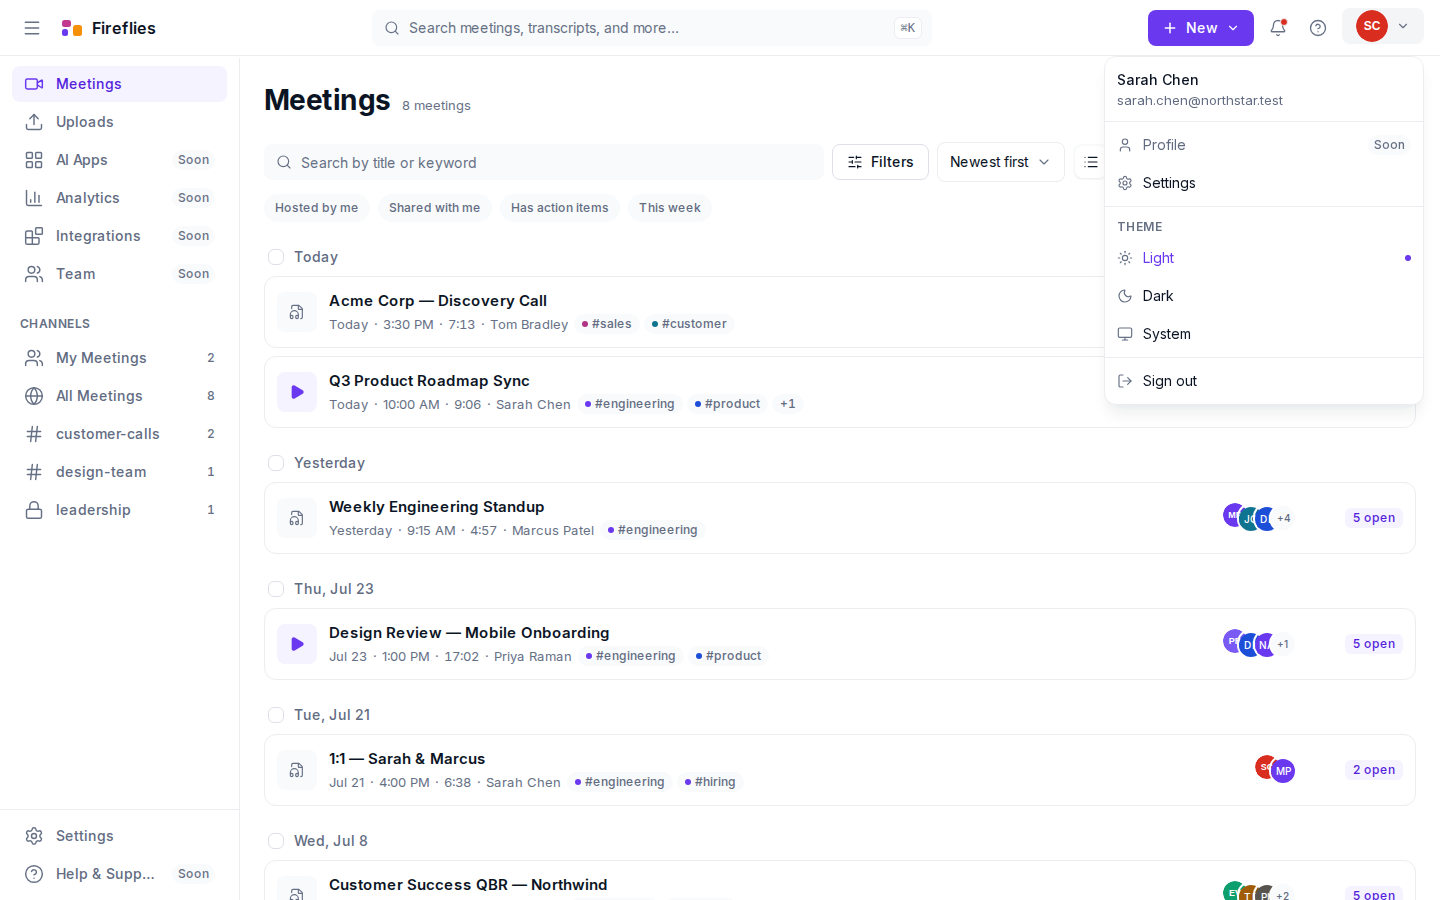
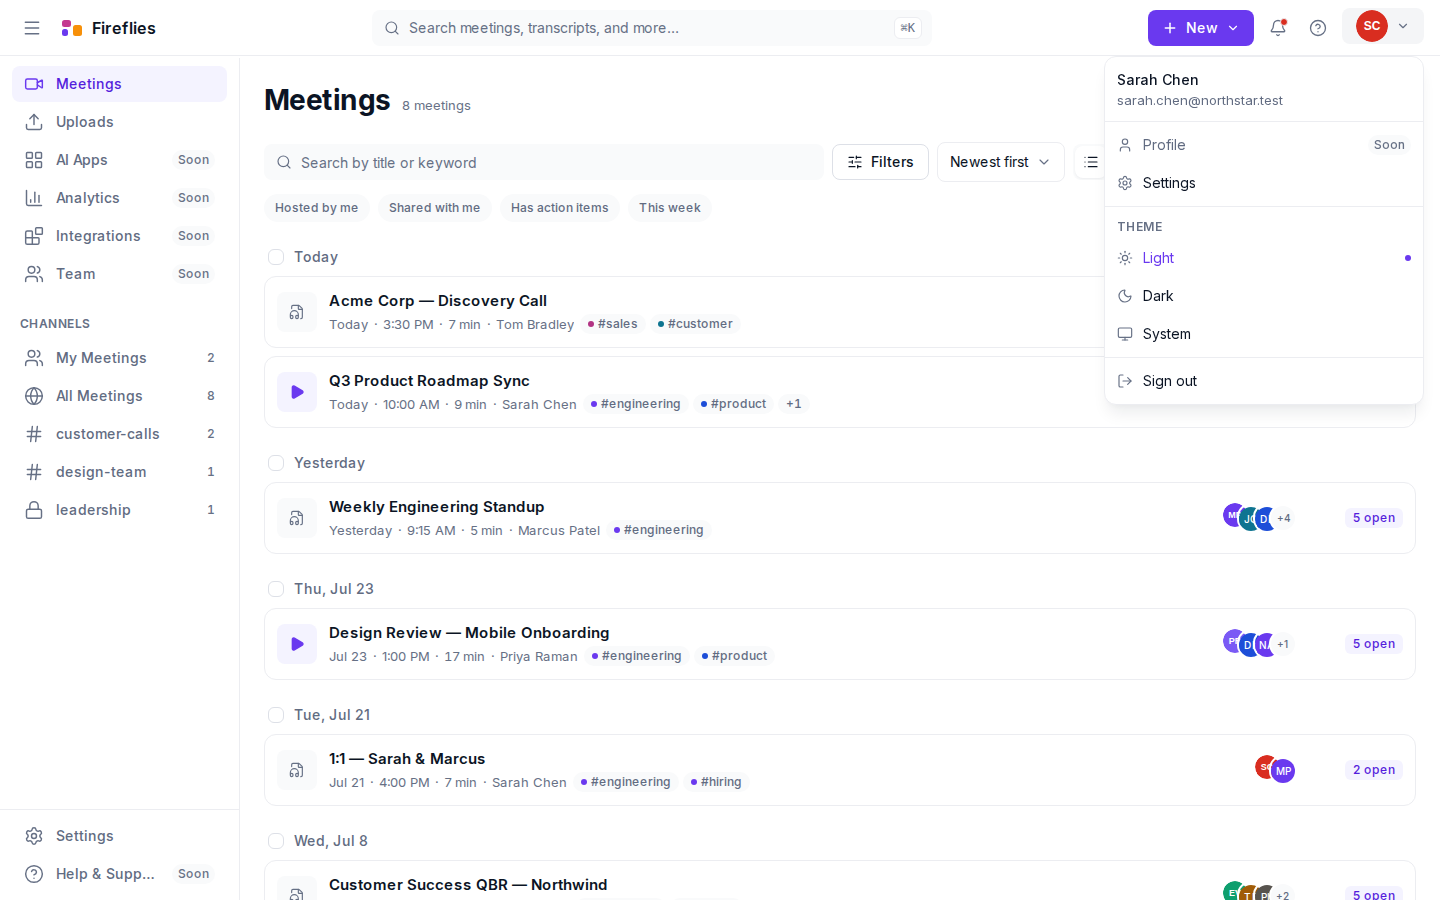
T-45.2/T-46: recapture the comparison set, and a notepad shot
Three findings, all of which needed looking at the images rather than at the
code that produces them.

1. Our thinnest screen was posed against the reference's fullest. Slot 02 is
   the ONE like-for-like comparison in the set — reference 02 is a dense
   date-grouped meetings list and so is ours — and it held the two-row
   `customer-calls` view against their eight. Slot 01 stands in for Fireflies'
   Home, which we have no equivalent of and cannot match either way, so the
   channel-scoped view moves there. The differentiation argument that put it
   in 02 is still satisfied; the two photographs still differ.

2. The dark notepad was photographed mid-load. The capture waited on
   `transcript-panel` and `summary-panel` being visible, and both are visible
   while their skeletons shimmer — so the shot was two columns of grey bars. It
   now waits for content. A screenshot of a loading state is worse than none:
   it looks like the app.

3. `9 min` wraps where `09:06` could not. The notepad header put "9" over
   "min" and doubled its own height — a regression from ADR-148 that no test
   would have caught and that is obvious in a still. `whitespace-nowrap` on all
   three labels.

Also records the notepad tag strip clipping its last chip in the UI audit. That
one is deliberate (`overflow-x-auto` on a fixed-height line) but has no scroll
affordance, so it reads as broken; the honest fix is a T-36 design question,
[…]

diff --git a/e2e/tests/99-capture.spec.ts b/e2e/tests/99-capture.spec.ts
@@ -92,30 +92,39 @@ for (const theme of THEMES) {
     })
 
     test(`01-home · notebook as the home hub · ${theme}`, async ({ page }) => {
-      // Fireflies' Home is a recent-meetings hub; our `/` redirects to the
-      // Notebook, which is the closest surface we have to a hub.
-      await page.goto('/notebook')
+      /*
+       * Fireflies' Home is a recent-meetings hub with a greeting, assistant
+       * cards and AskFred. We have no equivalent, so this slot is a stand-in
+       * whichever view goes in it — which is exactly why the CHANNEL-SCOPED
+       * notebook goes here and the full list goes in 02.
+       *
+       * It used to be the other way round. Reference 02 is a dense meetings
+       * list; ours was the two-row `customer-calls` view, so the one slot that
+       * IS a like-for-like comparison had our thinnest screen in it against
+       * their fullest. Swapping costs nothing — 01 is a non-match either way —
+       * and it puts our best-matching artifact against the screen that can
+       * actually be compared.
+       */
+      await page.goto('/notebook?channel=customer-calls')
       await expect(page.getByTestId('meeting-list')).toBeVisible()
       await capture(page, '01-home', theme)
     })
 
-    test(`02-meetings-list · a channel-scoped list · ${theme}`, async ({ page }) => {
+    test(`02-meetings-list · the full list, as the reference shows it · ${theme}`, async ({
+      page,
+    }) => {
       /*
-       * `?channel=customer-calls`, NOT `?channel=all-meetings`.
+       * The unfiltered list, because this is the one slot where a genuine
+       * like-for-like comparison is possible: `docs/reference/fireflies/02.png`
+       * is a dense, date-grouped meetings list, and so is this.
        *
-       * Two reasons, and the first one expired: this capture originally failed
-       * because the built-in "All Meetings" and "My Meetings" items are
-       * PSEUDO-channels with no `channels.slug` row, so the backend matched
-       * nothing and the view rendered empty. That is fixed on main — the
-       * built-ins resolve client-side now — so the URL works.
-       *
-       * The surviving reason is differentiation: with the fix, "All Meetings"
-       * shows exactly what `/notebook` shows, which is already key 01, and two
-       * identical photographs teach the evaluator nothing. `customer-calls` is
-       * a real seeded channel, so this captures the structure the reference
-       * actually shows — rail item active, scoped count, a narrowed list.
+       * The differentiation concern that previously put the channel-scoped view
+       * here is real but belongs in 01, which stands in for a screen we do not
+       * have. Photographing a two-row filtered list against their full one made
+       * the comparison look like a difference in the app rather than a
+       * difference in what was photographed.
        */
-      await page.goto('/notebook?channel=customer-calls')
+      await page.goto('/notebook')
       await expect(page.getByTestId('meeting-list')).toBeVisible()
       await capture(page, '02-meetings-list', theme)
     })
@@ -166,6 +175,34 @@ for (const theme of THEMES) {
       await page.goto('/settings?tab=appearance')
       await expect(page.getByTestId('settings-view')).toBeVisible()
       await capture(page, '08-settings-ai', theme)
+    })
+
+    test(`09-notepad · transcript, summary and player · ${theme}`, async ({ page }) => {
+      /*
+       * OUTSIDE the 01–08 reference harness on purpose: there is no Fireflies
+       * screenshot of a notepad in `docs/reference/fireflies/`, so this slot
+       * has nothing to sit beside and the comparison page does not look for it.
+       *
+       * It exists for the README (T-45.2). The notepad is where the most-graded
+       * interaction lives — transcript ↔ player sync — and a README whose only
+       * screenshot is a list is not showing the app. `?t=` seeks the player so
+       * the active transcript line is lit rather than the view sitting at 0:00
+       * with nothing to look at.
+       */
+      await page.goto('/meeting/1?t=45')
+
+      /*
+       * Wait for CONTENT, not for the panels. The first version of this waited
+       * on `transcript-panel` and `summary-panel` being visible — both of which
+       * are visible while their skeletons shimmer — and photographed the dark
+       * notepad as two columns of grey placeholder bars. A screenshot of a
+       * loading state is worse than no screenshot: it looks like the app.
+       */
+      await expect(page.getByTestId('summary-overview')).toBeVisible()
+      await page.locator('[data-testid^="transcript-segment-"]').first().waitFor()
+      await expect(page.getByTestId('transcript-count')).toBeVisible()
+
+      await capture(page, '09-notepad', theme)
     })
   })
 }

diff --git a/frontend/src/features/notebook/meeting-row.tsx b/frontend/src/features/notebook/meeting-row.tsx
@@ -247,8 +247,12 @@ export function MeetingRow({
             <Separator />
             <span>{formatTime(meeting.started_at)}</span>
             <Separator />
-            {/* tnum so durations line up down the list even unaligned. */}
-            <span className="tnum" data-testid="meeting-row-duration">
+            {/*
+              tnum so durations line up down the list even unaligned, and
+              nowrap because the label carries a space (ADR-148) — this line
+              shrinks, and "7" over "min" would break the row height token.
+            */}
+            <span className="tnum whitespace-nowrap" data-testid="meeting-row-duration">
               {formatDurationLabel(meeting.duration_seconds * 1000)}
             </span>
             <Separator />

diff --git a/frontend/src/features/notepad/notepad-header.tsx b/frontend/src/features/notepad/notepad-header.tsx
@@ -283,7 +283,14 @@ function MetadataLine({
     <div className="flex min-w-0 items-center gap-2 text-sm text-muted" data-testid="notepad-meta">
       <span className="truncate">{formatFullDate(meeting.started_at)}</span>
       <Separator />
-      <span className="tnum">{formatDurationLabel(meeting.duration_seconds * 1000)}</span>
+      {/*
+        `whitespace-nowrap` because the label contains a space (ADR-148) and
+        this row is a flex that shrinks. `09:06` could not wrap; `9 min`
+        wraps to "9" over "min" and doubles the header height.
+      */}
+      <span className="tnum whitespace-nowrap">
+        {formatDurationLabel(meeting.duration_seconds * 1000)}
+      </span>
       <Separator />
 
       <Popover

diff --git a/frontend/src/features/notebook/meeting-grid.tsx b/frontend/src/features/notebook/meeting-grid.tsx
@@ -67,7 +67,9 @@ export function MeetingGrid({
                   {formatRelativeDate(meeting.started_at)}
                 </span>
                 <span aria-hidden="true">·</span>
-                <span className="tnum">{formatDurationLabel(meeting.duration_seconds * 1000)}</span>
+                <span className="tnum whitespace-nowrap">
+                  {formatDurationLabel(meeting.duration_seconds * 1000)}
+                </span>
               </span>
 
               <span className="mt-auto flex items-center justify-between gap-2">

diff --git a/docs/ui-audit.md b/docs/ui-audit.md
@@ -92,6 +92,20 @@ and nothing wrapped them, and the sub-nav's `Soon` badges were ragged because
 the two longest labels overflowed the 224px rail. Both are in
 `docs/screenshots/` as re-captured.
 
+**6 · The notepad's tag strip clips its last chip (ours only).**
+The header packs date, duration, participant count, language, the full tag list
+and T-36.4's suggestions onto one line whose height is a token, so the strip is
+`overflow-x-auto` and scrolls rather than wrapping. Working as designed — but
+with no fade or arrow at the edge, a chip sliced mid-word reads as a broken
+layout rather than as "there is more, scroll". Visible at 1440px in
+`docs/screenshots/09-notepad.png`.
+
+Not fixed here because the behaviour is deliberate and adding a new visual
+affordance during a verification cycle is how regressions get in. The honest
+options are a gradient mask on the scroll container or moving suggestions out
+of the metadata line entirely; the second is better and is a T-36 design
+question, not a polish pass.
+
 ## Verified equivalent
 
 - Date-grouped rows with a group header and per-group checkbox (reference 02).
